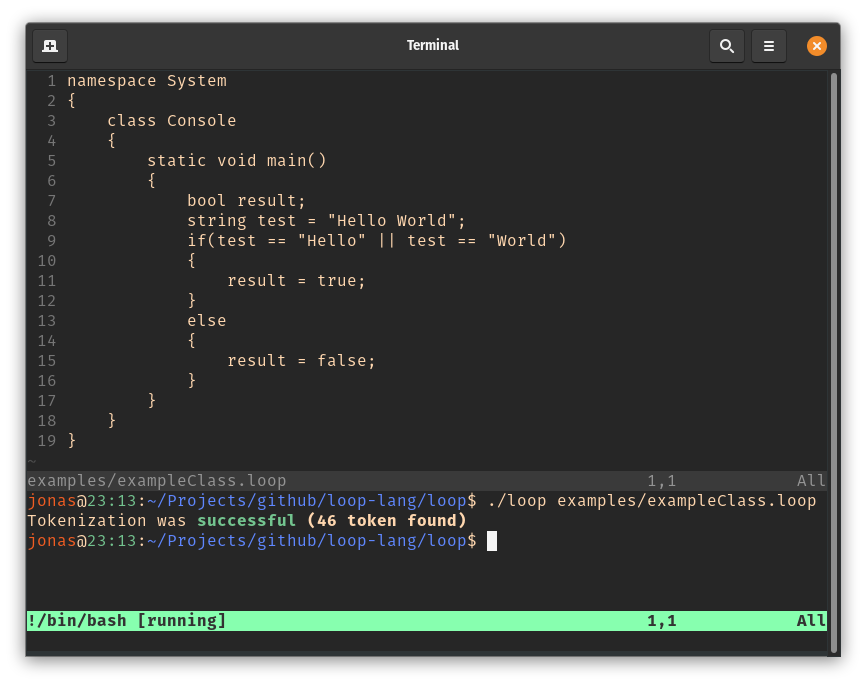
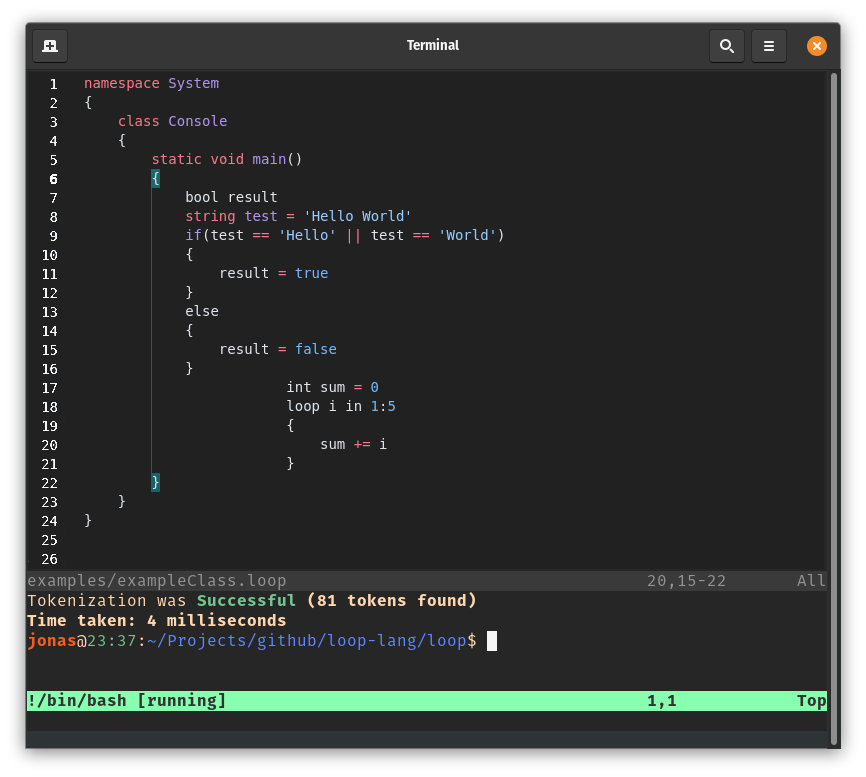
Documentation: Fixed code example, changed readme preview image and added loop special section

diff --git a/src/loop.cpp b/src/loop.cpp
@@ -25,13 +25,7 @@ int main(int argc, const char *argv[])
 
             if (tokenizer.werror.errors.size() < 1)
             {
-                int tokenCount = 0;
-                for (Token token : tokenizer.tokens)
-                {
-                    std::cout << token.kind << " : " << token.value << "\n";
-                    ++tokenCount;
-                }
-                std::cout << "Tokenization was \x1b[92;1mSuccessful\x1b[0;1m (" << tokenCount << " tokens found)" << std::endl;
+                std::cout << "Tokenization was \x1b[92;1mSuccessful\x1b[0;1m (" << tokenizer.tokens.size() << " tokens found)" << std::endl;
             }
             else
             {

diff --git a/README.md b/README.md
@@ -20,9 +20,17 @@
 </div>
 
 # Loop
-Loop is an object oriented programming language.
+Loop is a multi-paradigm programming language.
 
 ![Example tokenized Loop Code](documentation/assets/images/tokenized_example_code.png)
+
+## What will make loop special?
+- Better loops 
+- Very fast performance
+- Guaranteed memory safety
+- Secure and robust
+- Better error handling
+- Rich library
 
 ## How do I build and run this?
 
